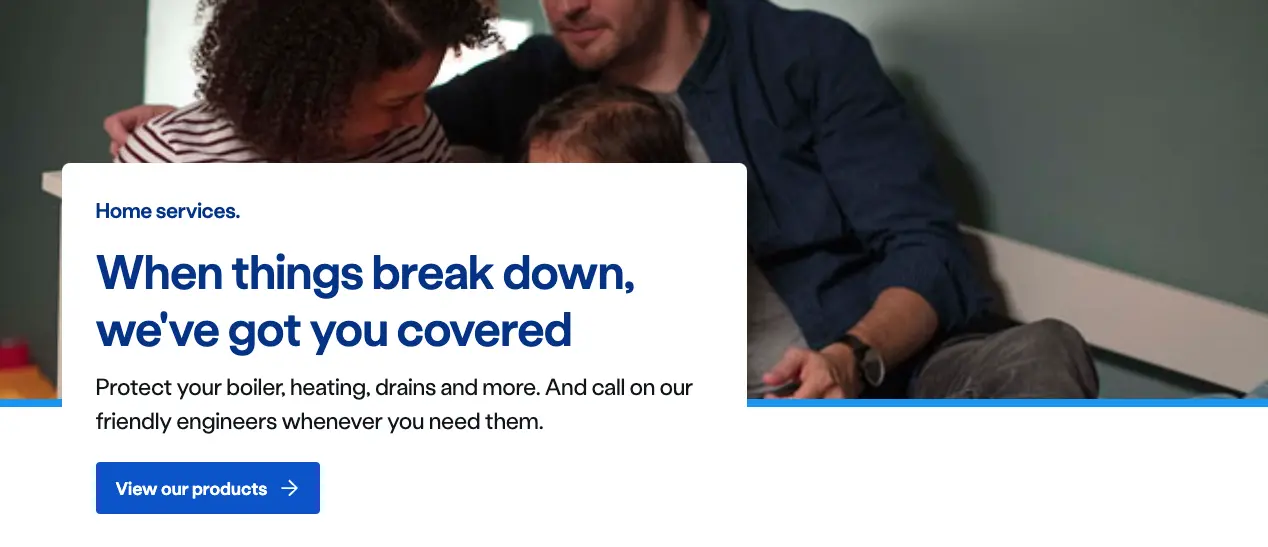
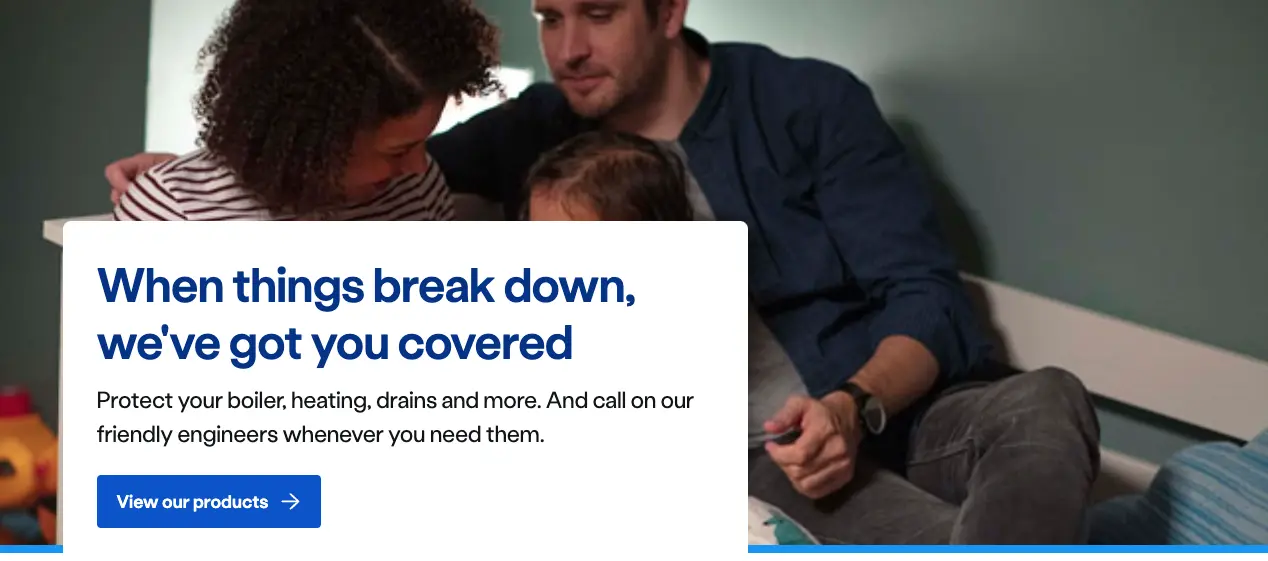
updated summit best practice images

diff --git a/docs/components/ns-landmark.md b/docs/components/ns-landmark.md
@@ -97,7 +97,7 @@ Landmarks are used to set the scene for what the page is for, what offers might 
 | Capture the moment. | Allow the card to cover important content. |
 | ![do-father-child](images/ns-landmark/best-practice-do1-summit.webp) | ![dont-covered-family](images/ns-landmark/best-practice-dont1-summit.webp) |
 | Set focus of the photo correctly. | Obstruct people's faces with the card. |
-| ![do-couple-on-sofa](images/ns-landmark/best-practice-do2-summit.webp) | ![dont-obstructed-parents-faces](image/../images/ns-landmark/best-practice-dont2-summit.webp) |
+| ![do-couple-on-sofa](images/ns-landmark/best-practice-do2-summit.webp) | ![dont-obstructed-face](images/ns-landmark/best-practice-dont2-summit.webp) |
 | Convey activity related to topic. | Use images with a white background. |
 | ![do-boiler-service](images/ns-landmark/best-practice-do3-summit.webp) | ![dont-boiler-on-white-background](images/ns-landmark/best-practice-dont3-summit.webp) |
 
